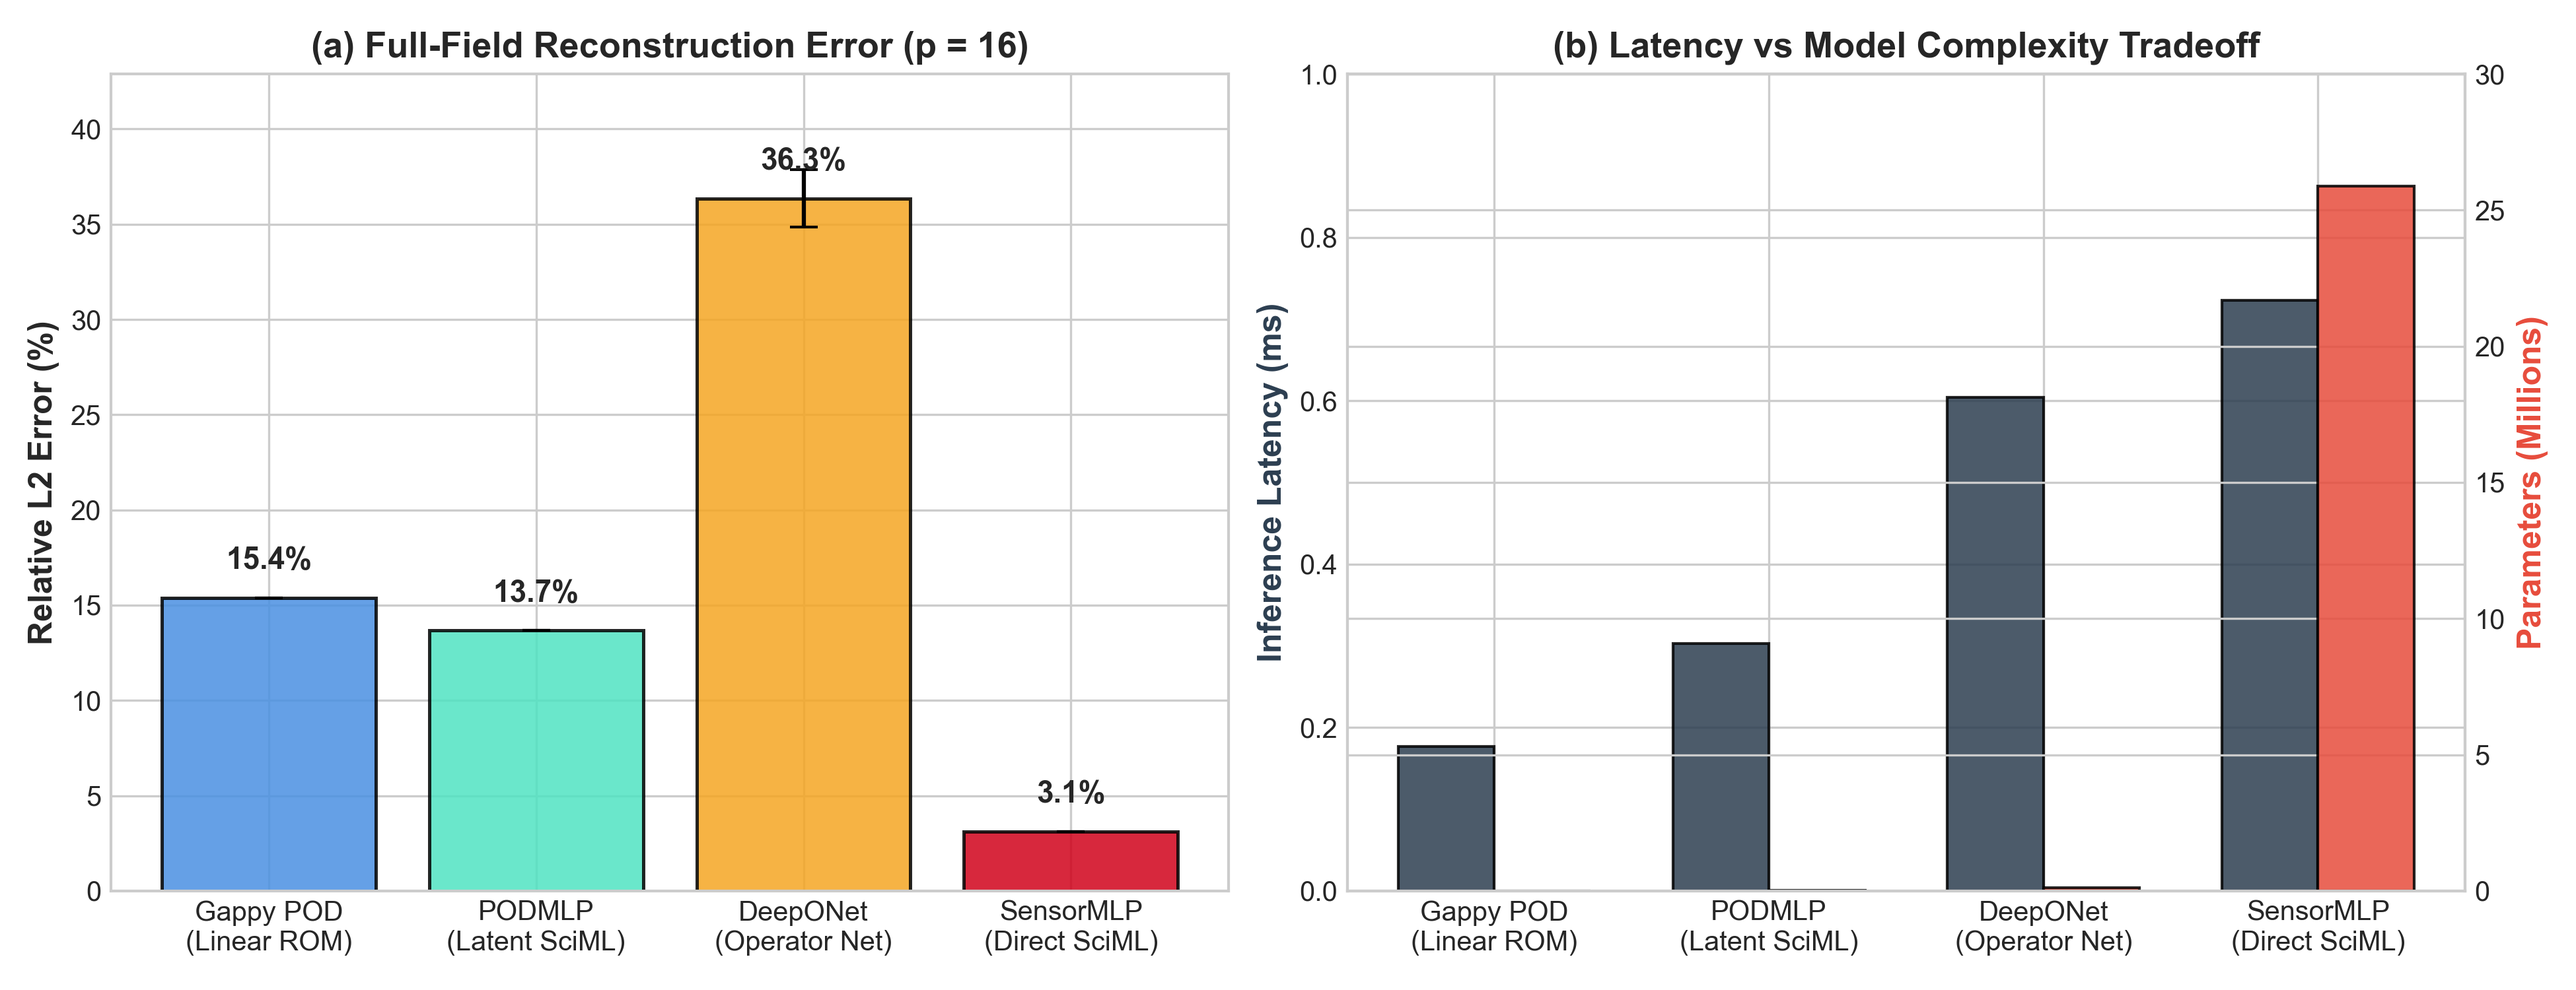
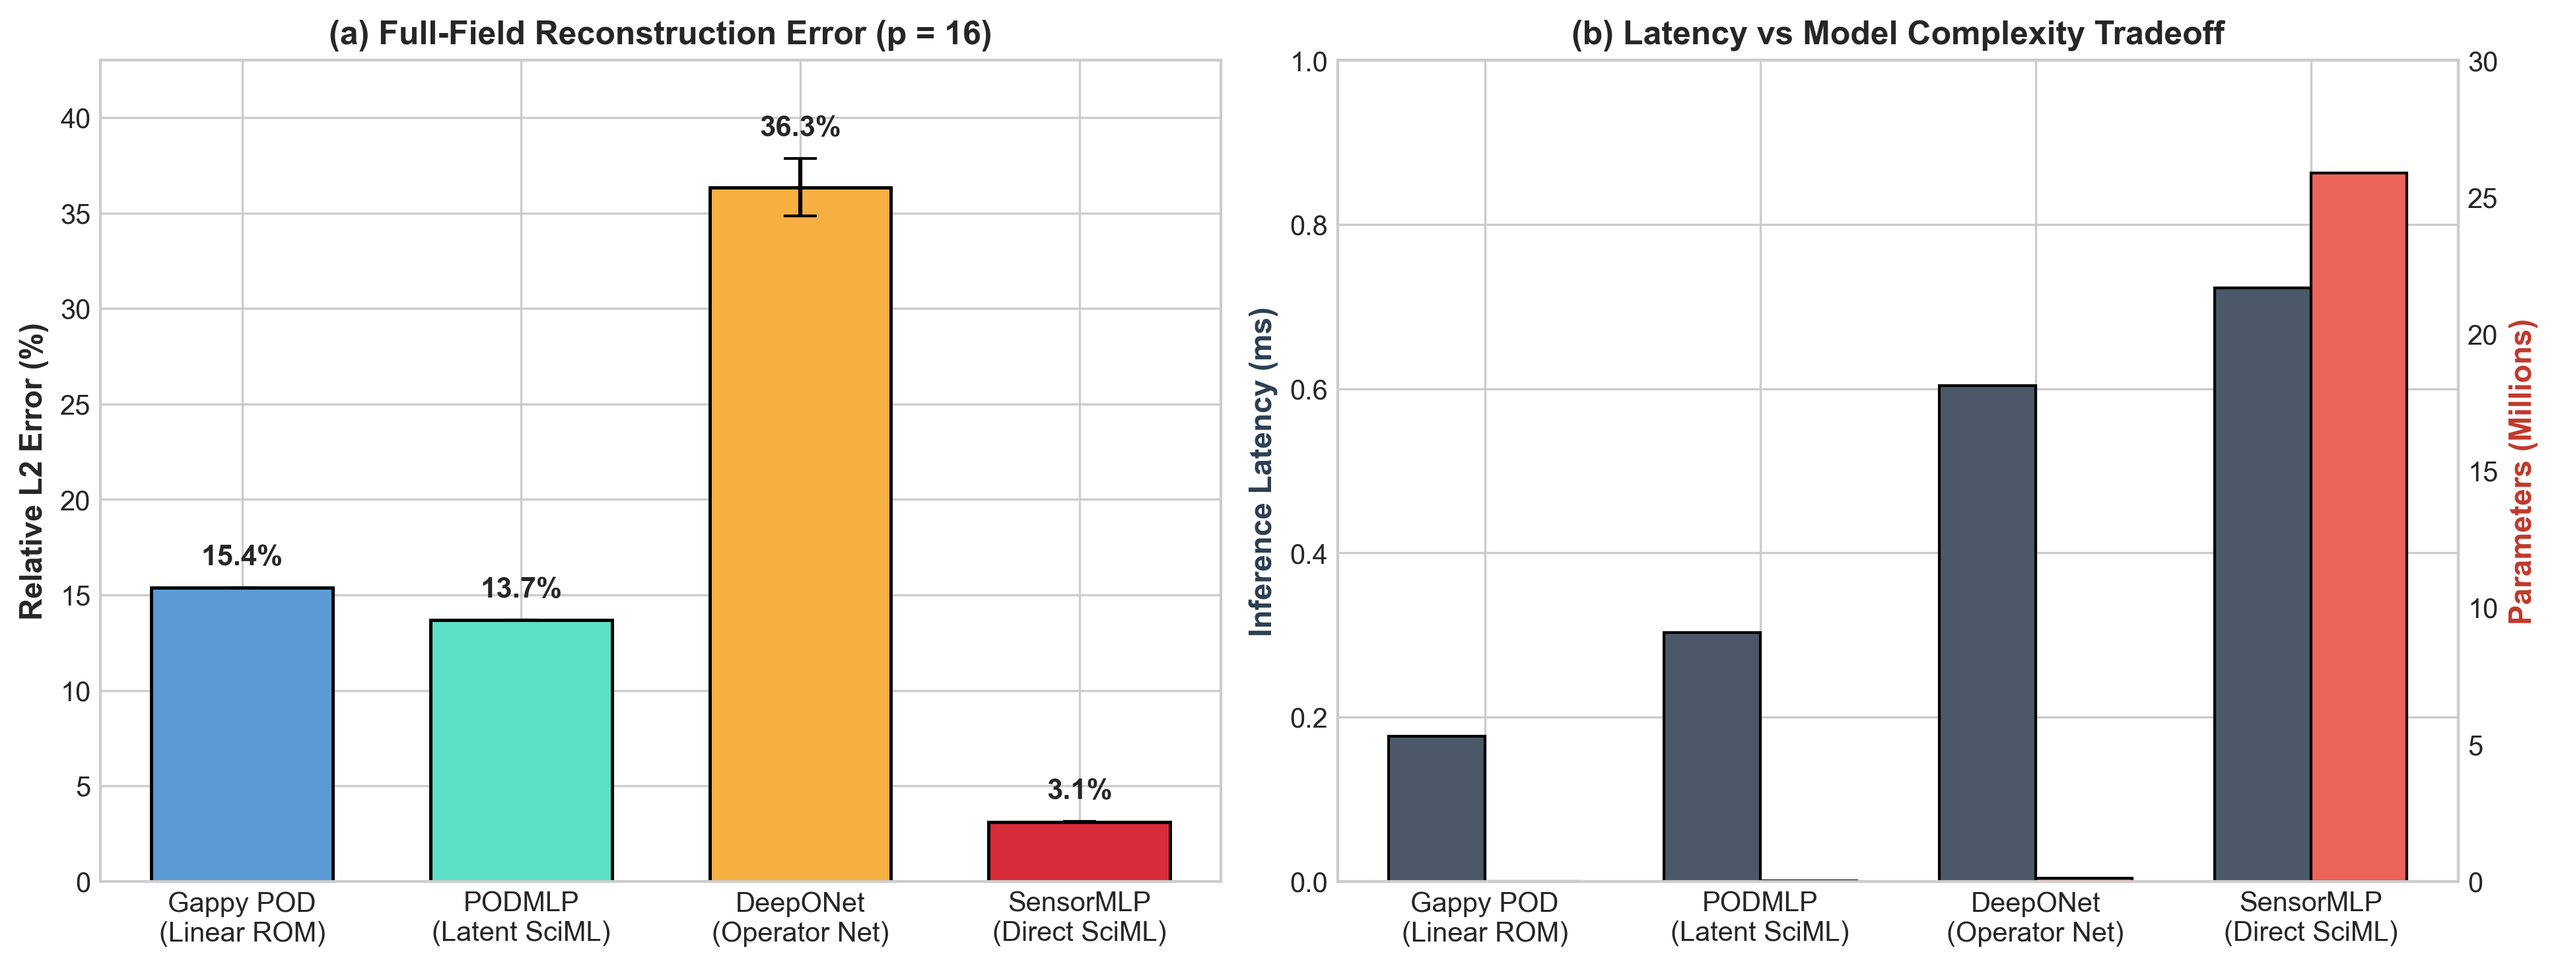
final tweaks

diff --git a/scripts/stage3_additional_models.py b/scripts/stage3_additional_models.py
@@ -24,6 +24,66 @@ from scripts.stage3_psweep import compute_all_metrics, get_adjacent_ring_mask, t
 def count_parameters(model):
     return sum(p.numel() for p in model.parameters() if p.requires_grad)
 
+def plot_model_comparison(models_dict, output_path):
+    import matplotlib.pyplot as plt
+    plt.style.use('seaborn-v0_8-whitegrid' if 'seaborn-v0_8-whitegrid' in plt.style.available else 'default')
+    fig, (ax1, ax2) = plt.subplots(1, 2, figsize=(13, 5))
+
+    labels = ['Gappy POD\n(Linear ROM)', 'PODMLP\n(Latent SciML)', 'DeepONet\n(Operator Net)', 'SensorMLP\n(Direct SciML)']
+    errs = [
+        models_dict['gappy_pod']['rel_l2_pct'],
+        models_dict['podmlp_mean']['rel_l2_pct'],
+        models_dict['deeponet_mean']['rel_l2_pct'],
+        models_dict['sensor_mlp_mean']['rel_l2_pct'],
+    ]
+    stds = [
+        0.0,
+        models_dict['podmlp_std']['rel_l2_pct'],
+        models_dict['deeponet_std']['rel_l2_pct'],
+        models_dict['sensor_mlp_std']['rel_l2_pct'],
+    ]
+    colors = ['#5b9bd5', '#5ce1c6', '#f5b041', '#d92b3a']
+
+    bars = ax1.bar(labels, errs, yerr=stds, capsize=6, color=colors, edgecolor='black', linewidth=1.2, width=0.65)
+    ax1.set_ylim(0, 43)
+    ax1.set_ylabel('Relative L2 Error (%)', fontsize=11, fontweight='bold')
+    ax1.set_title('(a) Full-Field Reconstruction Error (p = 16)', fontsize=12, fontweight='bold')
+    for b, val, sd in zip(bars, errs, stds):
+        ax1.text(b.get_x() + b.get_width() / 2.0, val + sd + 0.9, f'{val:.1f}%', ha='center', va='bottom', fontsize=10.5, fontweight='bold')
+
+    lats = [
+        models_dict['gappy_pod']['latency_ms'],
+        models_dict['podmlp_mean']['latency_ms'],
+        models_dict['deeponet_mean']['latency_ms'],
+        models_dict['sensor_mlp_mean']['latency_ms'],
+    ]
+    params_m = [
+        0.0,
+        models_dict['podmlp_mean']['params'] / 1e6,
+        models_dict['deeponet_mean']['params'] / 1e6,
+        models_dict['sensor_mlp_mean']['params'] / 1e6,
+    ]
+    x = np.arange(len(labels))
+    w = 0.35
+    ax2.bar(x - w/2, lats, width=w, color='#4a5868', edgecolor='black', label='Latency (ms)')
+    ax2.set_ylim(0, 1.0)
+    ax2.set_ylabel('Inference Latency (ms)', fontsize=11, fontweight='bold', color='#2c3e50')
+    ax2.set_xticks(x)
+    ax2.set_xticklabels(labels)
+    ax2.set_title('(b) Latency vs Model Complexity Tradeoff', fontsize=12, fontweight='bold')
+
+    ax2_r = ax2.twinx()
+    ax2_r.bar(x + w/2, params_m, width=w, color='#ec6459', edgecolor='black', label='Parameters (M)')
+    ax2_r.set_ylim(0, 30)
+    ax2_r.set_ylabel('Parameters (Millions)', fontsize=11, fontweight='bold', color='#c0392b')
+    ax2_r.grid(False)
+
+    os.makedirs(os.path.dirname(output_path), exist_ok=True)
+    plt.tight_layout()
+    plt.savefig(output_path, dpi=300, bbox_inches='tight')
+    plt.close()
+    print(f"Saved model comparison figure to {output_path}")
+
 def run_additional_models_experiment(quick=False):
     start_wall = time.time()
     device = torch.device('cuda' if torch.cuda.is_available() else 'cpu')
@@ -299,6 +359,7 @@ def run_additional_models_experiment(quick=False):
     with open(out_json, 'w') as f:
         json.dump(final_payload, f, indent=2)
     print(f"\nSaved Phase 5 model comparison results to {out_json} in {total_time}s ({total_time/60.0:.2f} min).")
+    plot_model_comparison(final_payload['models'], os.path.join(output_dir, 'model_comparison.png'))
     return final_payload
 
 if __name__ == '__main__':
